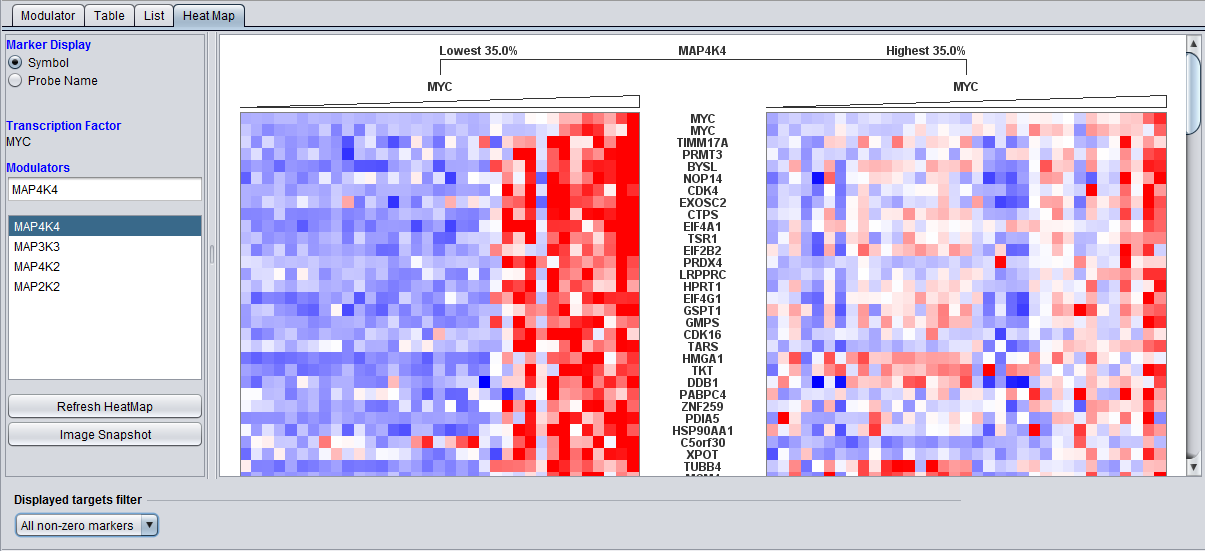
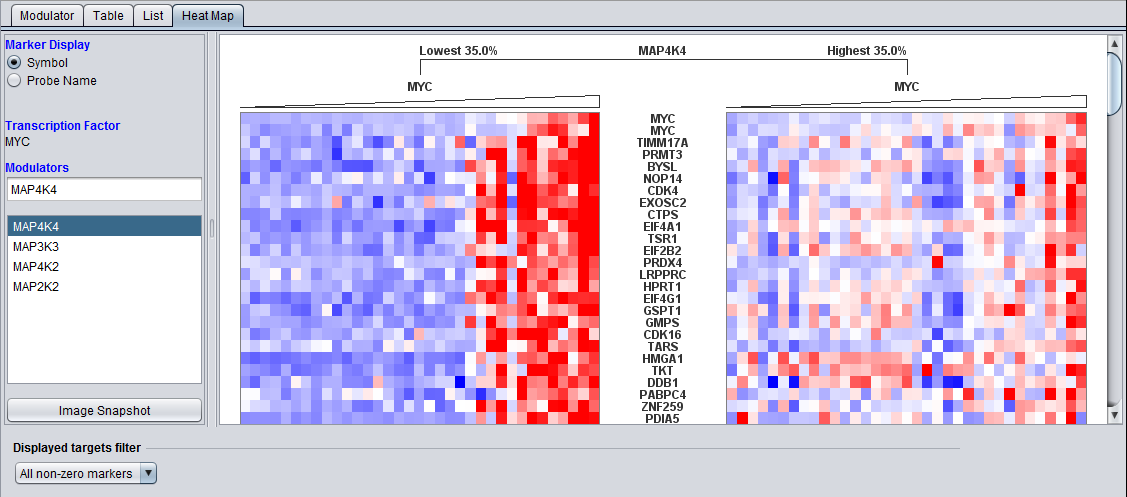
updated for 2.3.0.
git-svn-id: https://ncisvn.nci.nih.gov/svn/geworkbench/trunk/geworkbench@9074 8b29bb6e-589a-435a-9a12-3ab907be3462

diff --git a/components/mindy/src/org/geworkbench/components/mindy/help/mindy.htm b/components/mindy/src/org/geworkbench/components/mindy/help/mindy.htm
@@ -4,17 +4,6 @@
 <meta http-equiv="Content-Type" content="text/html; charset=UTF-8">
 <meta name="generator" content="MediaWiki 1.16.0">
 <meta name="robots" content="noindex,follow">
-<link rel="alternate" type="application/x-wiki" title="Edit" href="http://wiki.c2b2.columbia.edu/workbench/index.php?title=MINDy&amp;action=edit">
-<link rel="edit" title="Edit" href="http://wiki.c2b2.columbia.edu/workbench/index.php?title=MINDy&amp;action=edit">
-<link rel="shortcut icon" href="http://wiki.c2b2.columbia.edu/workbench/skins/common/images/favicon.ico">
-<link rel="search" type="application/opensearchdescription+xml" href="http://wiki.c2b2.columbia.edu/workbench/opensearch_desc.php" title="Workbench (en)">
-<link rel="alternate" type="application/atom+xml" title="Workbench Atom feed" href="http://wiki.c2b2.columbia.edu/workbench/index.php?title=Special:RecentChanges&amp;feed=atom">
-<link rel="stylesheet" href="mindy_files/commonPrint.css" media="">
-<link rel="stylesheet" href="mindy_files/index_003.css">
-<link rel="stylesheet" href="mindy_files/index.css" media="">
-<link rel="stylesheet" href="mindy_files/index_002.css">
-<link rel="stylesheet" href="mindy_files/index_004.css">
-
 
 </head>
 <body class="mediawiki ltr ns-0 ns-subject page-MINDy skin-monobook">
@@ -24,7 +13,6 @@
 	
 	<h1 id="firstHeading" class="firstHeading">MINDy</h1>
 	<div id="bodyContent">
-
 		<!-- start content -->
 <p><br>
 </p><p><br>
@@ -98,7 +86,7 @@ markers which will be used in the calculations.  As such, all hub
 markers and candidate modulator markers must be included in this list.
 </li></ol>
 <a name="Parameters_-_Main"></a><h2> <span class="mw-headline" id="Parameters_-_Main">Parameters - Main</span></h2>
-<p><img alt="MINDy Parameters Main.png" src="mindy_files/MINDy_Parameters_Main.png" height="403" width="1186">
+<p><img alt="MINDy Parameters Main.png" src="mindy_files/MINDy_Parameters_Main.png" height="351" width="1210">
 </p><p><br>
 The Modulators List, Target List, and Hub Marker fields are populated 
 using marker IDs as represented in the Markers component.  Note that 
@@ -160,7 +148,7 @@ the most recently selected marker in the Markers component will be used,
 <p><br>
 </p>
 <a name="Parameters_-_Advanced"></a><h2> <span class="mw-headline" id="Parameters_-_Advanced">Parameters - Advanced</span></h2>
-<p><img alt="Mindy advanced parameters.png" src="mindy_files/Mindy_advanced_parameters.png" height="321" width="1236">
+<p><img alt="MINDy Parameters Advanced .png" src="mindy_files/MINDy_Parameters_Advanced_.png" height="351" width="1210">
 </p><p><br>
 </p>
 <a name="Sample_per_Condition_.28.25.29"></a><h3> <span class="mw-headline" id="Sample_per_Condition_.28.25.29">Sample per Condition (%)</span></h3>
@@ -249,6 +237,22 @@ calculations.
 modulators, consider the false-positive implications of multiple tests, 
 even though no significance value is being calculated.
 </li></ul>
+<a name="ARACNe_configuration_files"></a><h3> <span class="mw-headline" id="ARACNe_configuration_files">ARACNe configuration files</span></h3>
+<p>The following discussion of configuration files applies only to the 
+local version of MINDy, not the grid version.  On the grid version, only
+ the default parameters for kernel width and threshold will be used.
+</p><p>MINDy in geWorkbench uses the original, fixed-bandwidth version 
+of ARACNe.  This version of ARACNe uses two configuration files, 
+config_kernel.txt and config_threshold.txt.  If these two files are not 
+supplied, default parameters will be used, which should be sufficient 
+for most cases.  The parameter files can also be generated using ARACNe2
+ in geWorkbench.  However, the files will be named after the dataset 
+from which they are generated, and must be renamed to config_kernel.txt 
+and config_threshold.txt to be seen by ARACNe.  Files with those names, 
+if present in the geWorkbench installation root folder, will override 
+any other dataset-specific configuration files for ARACNe2, and so 
+should not be left on the system after MINDy has been run.
+</p>
 <a name="Services_.28Grid.29"></a><h1> <span class="mw-headline" id="Services_.28Grid.29">Services (Grid)</span></h1>
 <p>MINDy can be run either locally within geWorkbench, or remotely as a grid job on caGrid.  See the <a href="http://wiki.c2b2.columbia.edu/workbench/index.php/Tutorial_-_Grid_Services" title="Tutorial - Grid Services" class="mw-redirect"> Grid Services</a> section for further details on setting up a grid job.  A Columbia grid login must be obtained to use the Columbia grid service.
 </p><p><br>
@@ -271,11 +275,11 @@ save the file <a href="http://wiki.c2b2.columbia.edu/workbench/images/4/4f/Mapk_
 </p><p><br>
 Modulator list loaded from file:
 </p><p><br>
-<img alt="MINDy parameters mapk run.png" src="mindy_files/MINDy_parameters_mapk_run.png" height="319" width="1252">
+<img alt="MINDy parameters mapk run.png" src="mindy_files/MINDy_parameters_mapk_run.png" height="314" width="1195">
 </p><p><br>
 Modulator list loaded from Marker set:
 </p><p><br>
-<img alt="MINDy parameters mapk run fromset.png" src="mindy_files/MINDy_parameters_mapk_run_fromset.png" height="316" width="1250">
+<img alt="MINDy parameters mapk run fromset.png" src="mindy_files/MINDy_parameters_mapk_run_fromset.png" height="294" width="1191">
 </p><p><br>
 </p>
 <ol><li> Load the Bcell-100.exp microarray dataset, which is available 
@@ -347,6 +351,12 @@ conditional low set.
 <p>(Except Heat Map) -  Adds selected markers to a Marker Set. You can 
 select one or more Targets and/or Modulators, using the selection 
 check-boxes.
+</p><p><br>
+</p>
+<a name="Export"></a><h4> <span class="mw-headline" id="Export">Export</span></h4>
+<p>The results shown in the Modulator, Table, or List tabs can be 
+exported to a CSV format file on disk using the "Export" button. Only 
+the table in the  currently displayed tab is exported.
 </p>
 <a name="Displayed_targets_filter"></a><h3> <span class="mw-headline" id="Displayed_targets_filter">Displayed targets filter</span></h3>
 <p>This menu is located at the bottom of the MINDy viewer component and 
@@ -365,7 +375,7 @@ intersection of the MINDy result set and the Marker set).
 <p><br>
 </p>
 <a name="Modulator_tab"></a><h2> <span class="mw-headline" id="Modulator_tab">Modulator tab</span></h2>
-<p><img alt="MINDy mapk initial result modulator tab.png" src="mindy_files/MINDy_mapk_initial_result_modulator_tab.png" height="393" width="897">	
+<p><img alt="MINDy mapk initial result modulator tab.png" src="mindy_files/MINDy_mapk_initial_result_modulator_tab.png" height="464" width="936">	
 </p><p>This table-based view contains one row per modulator gene.  It 
 summarizes the results, and is used to control the targets displayed in 
 the other view tabs.
@@ -394,11 +404,11 @@ using the individual check boxes in the table.
 </li></ul>
 <p><br>
 Here all four modulators in the example have been selected, activating the other tabs.
-</p><p><img alt="MINDy mapk initial result modulator tab select all.png" src="mindy_files/MINDy_mapk_initial_result_modulator_tab_select_all.png" height="300" width="558">
+</p><p><img alt="MINDy mapk initial result modulator tab select all.png" src="mindy_files/MINDy_mapk_initial_result_modulator_tab_select_all.png" height="381" width="449">
 </p><p><br>
 </p>
 <a name="Table"></a><h2> <span class="mw-headline" id="Table">Table</span></h2>
-<p><img alt="MINDy mapk Table.png" src="mindy_files/MINDy_mapk_Table.png" height="787" width="1111">
+<p><img alt="MINDy mapk Table.png" src="mindy_files/MINDy_mapk_Table.png" height="864" width="935">
 </p><p><br>
 The column "Target" represents the target genes and the remaining columns represent the modulators tested. 
 </p>
@@ -426,7 +436,7 @@ increasing absolute value of the score.
 <p><br>
 Here, both the "Color View" and "Score View" options have been checked.
 </p><p><br>
-<img alt="MINDy mapk Table display options1.png" src="mindy_files/MINDy_mapk_Table_display_options1.png" height="788" width="1111">
+<img alt="MINDy mapk Table display options1.png" src="mindy_files/MINDy_mapk_Table_display_options1.png" height="863" width="932">
 </p><p><br>
 The modulators in the above figure are by default sorted by the 
 aggregate count of targets for which a modulatory effect was seen (M#).
@@ -481,7 +491,7 @@ displayed in a spreadsheet format.  Because each modulator will have its
 have a value.  Results in the Table view are padded with zeros as 
 necessary.
 </p><p><br>
-<img alt="MINDy mapk List tab.png" src="mindy_files/MINDy_mapk_List_tab.png" height="465" width="787">
+<img alt="MINDy mapk List tab.png" src="mindy_files/MINDy_mapk_List_tab.png" height="472" width="695">
 </p><p><br>
 </p>
 <ul><li> <b>Marker Selection</b> (checkbox) - Controls which markers are used by the "Add to Set" button.
@@ -515,19 +525,17 @@ modulators, and the text box above it shows the selected modulator.
 </li></ul>
 <p>Here the first modulator on the list is selected:
 </p><p><br>
-<img alt="MINDy mapk Heat Map tab.png" src="mindy_files/MINDy_mapk_Heat_Map_tab.png" height="551" width="1205">
+<img alt="MINDy mapk Heat Map tab.png" src="mindy_files/MINDy_mapk_Heat_Map_tab.png" height="497" width="1127">
 </p><p><br>
 As shown below, scrolling to the bottom of the Heat Map image shows how 
 the effect of modulation can differ for different genes.  The genes at 
 top are directly correlated with MYC when MAP4K4 is low, whereas the 
 genes at bottom are anti-correlated.
 </p><p><br>
-<img alt="MINDy mapk Heat Map tab MAP4K4 lower.png" src="mindy_files/MINDy_mapk_Heat_Map_tab_MAP4K4_lower.png" height="477" width="1203">
+<img alt="MINDy mapk Heat Map tab MAP4K4 lower.png" src="mindy_files/MINDy_mapk_Heat_Map_tab_MAP4K4_lower.png" height="498" width="1127">
 </p><p><br>
 </p>
 <ul><li> <b>Displayed targets filter</b> - The targets displayed in the Heat Map view can be limited to those defined in a marker set.  
-</li></ul>
-<ul><li> <b>Refresh HeatMap: </b> - Resets the Heat Map display.
 </li></ul>
 <ul><li> <b>Image Snapshot:</b> - Captures the Heat Map as an image node in the Project Folder.
 </li></ul>
@@ -547,13 +555,13 @@ post-translational modulators of transcription factor activity in human B
 
 <!-- 
 NewPP limit report
-Preprocessor node count: 154/1000000
-Post-expand include size: 1889/2097152 bytes
+Preprocessor node count: 162/1000000
+Post-expand include size: 1907/2097152 bytes
 Template argument size: 0/2097152 bytes
 Expensive parser function count: 0/100
 -->
 
-<!-- Saved in parser cache with key workbench:pcache:idhash:1842-0!1!0!!en!2!printable=1 and timestamp 20110729012314 -->
+<!-- Saved in parser cache with key workbench:pcache:idhash:1842-0!1!0!!en!2!printable=1 and timestamp 20120309163439 -->
 <div class="printfooter">
 Retrieved from "<a href="http://wiki.c2b2.columbia.edu/workbench/index.php/MINDy">http://wiki.c2b2.columbia.edu/workbench/index.php/MINDy</a>"</div>
 		<div id="catlinks" class="catlinks catlinks-allhidden"></div>		<!-- end content -->
@@ -562,11 +570,10 @@ Retrieved from "<a href="http://wiki.c2b2.columbia.edu/workbench/index.php/MINDy
 </div></div>
 <div class="visualClear"></div>
 <div id="footer">
-
-This page was last modified on 26 July 2011, at 19:23.
-
+	<div id="f-poweredbyico"><img src="mindy_files/poweredby_mediawiki_88x31.png" alt="Powered by MediaWiki" height="31" width="88"></div>
+	<ul id="f-list">
+		<li id="lastmod"> This page was last modified on 23 February 2012, at 18:53.</li>
+	</ul>
 </div>
 </div>
 
-<!-- Served in 0.475 secs. -->
-</body></html>
